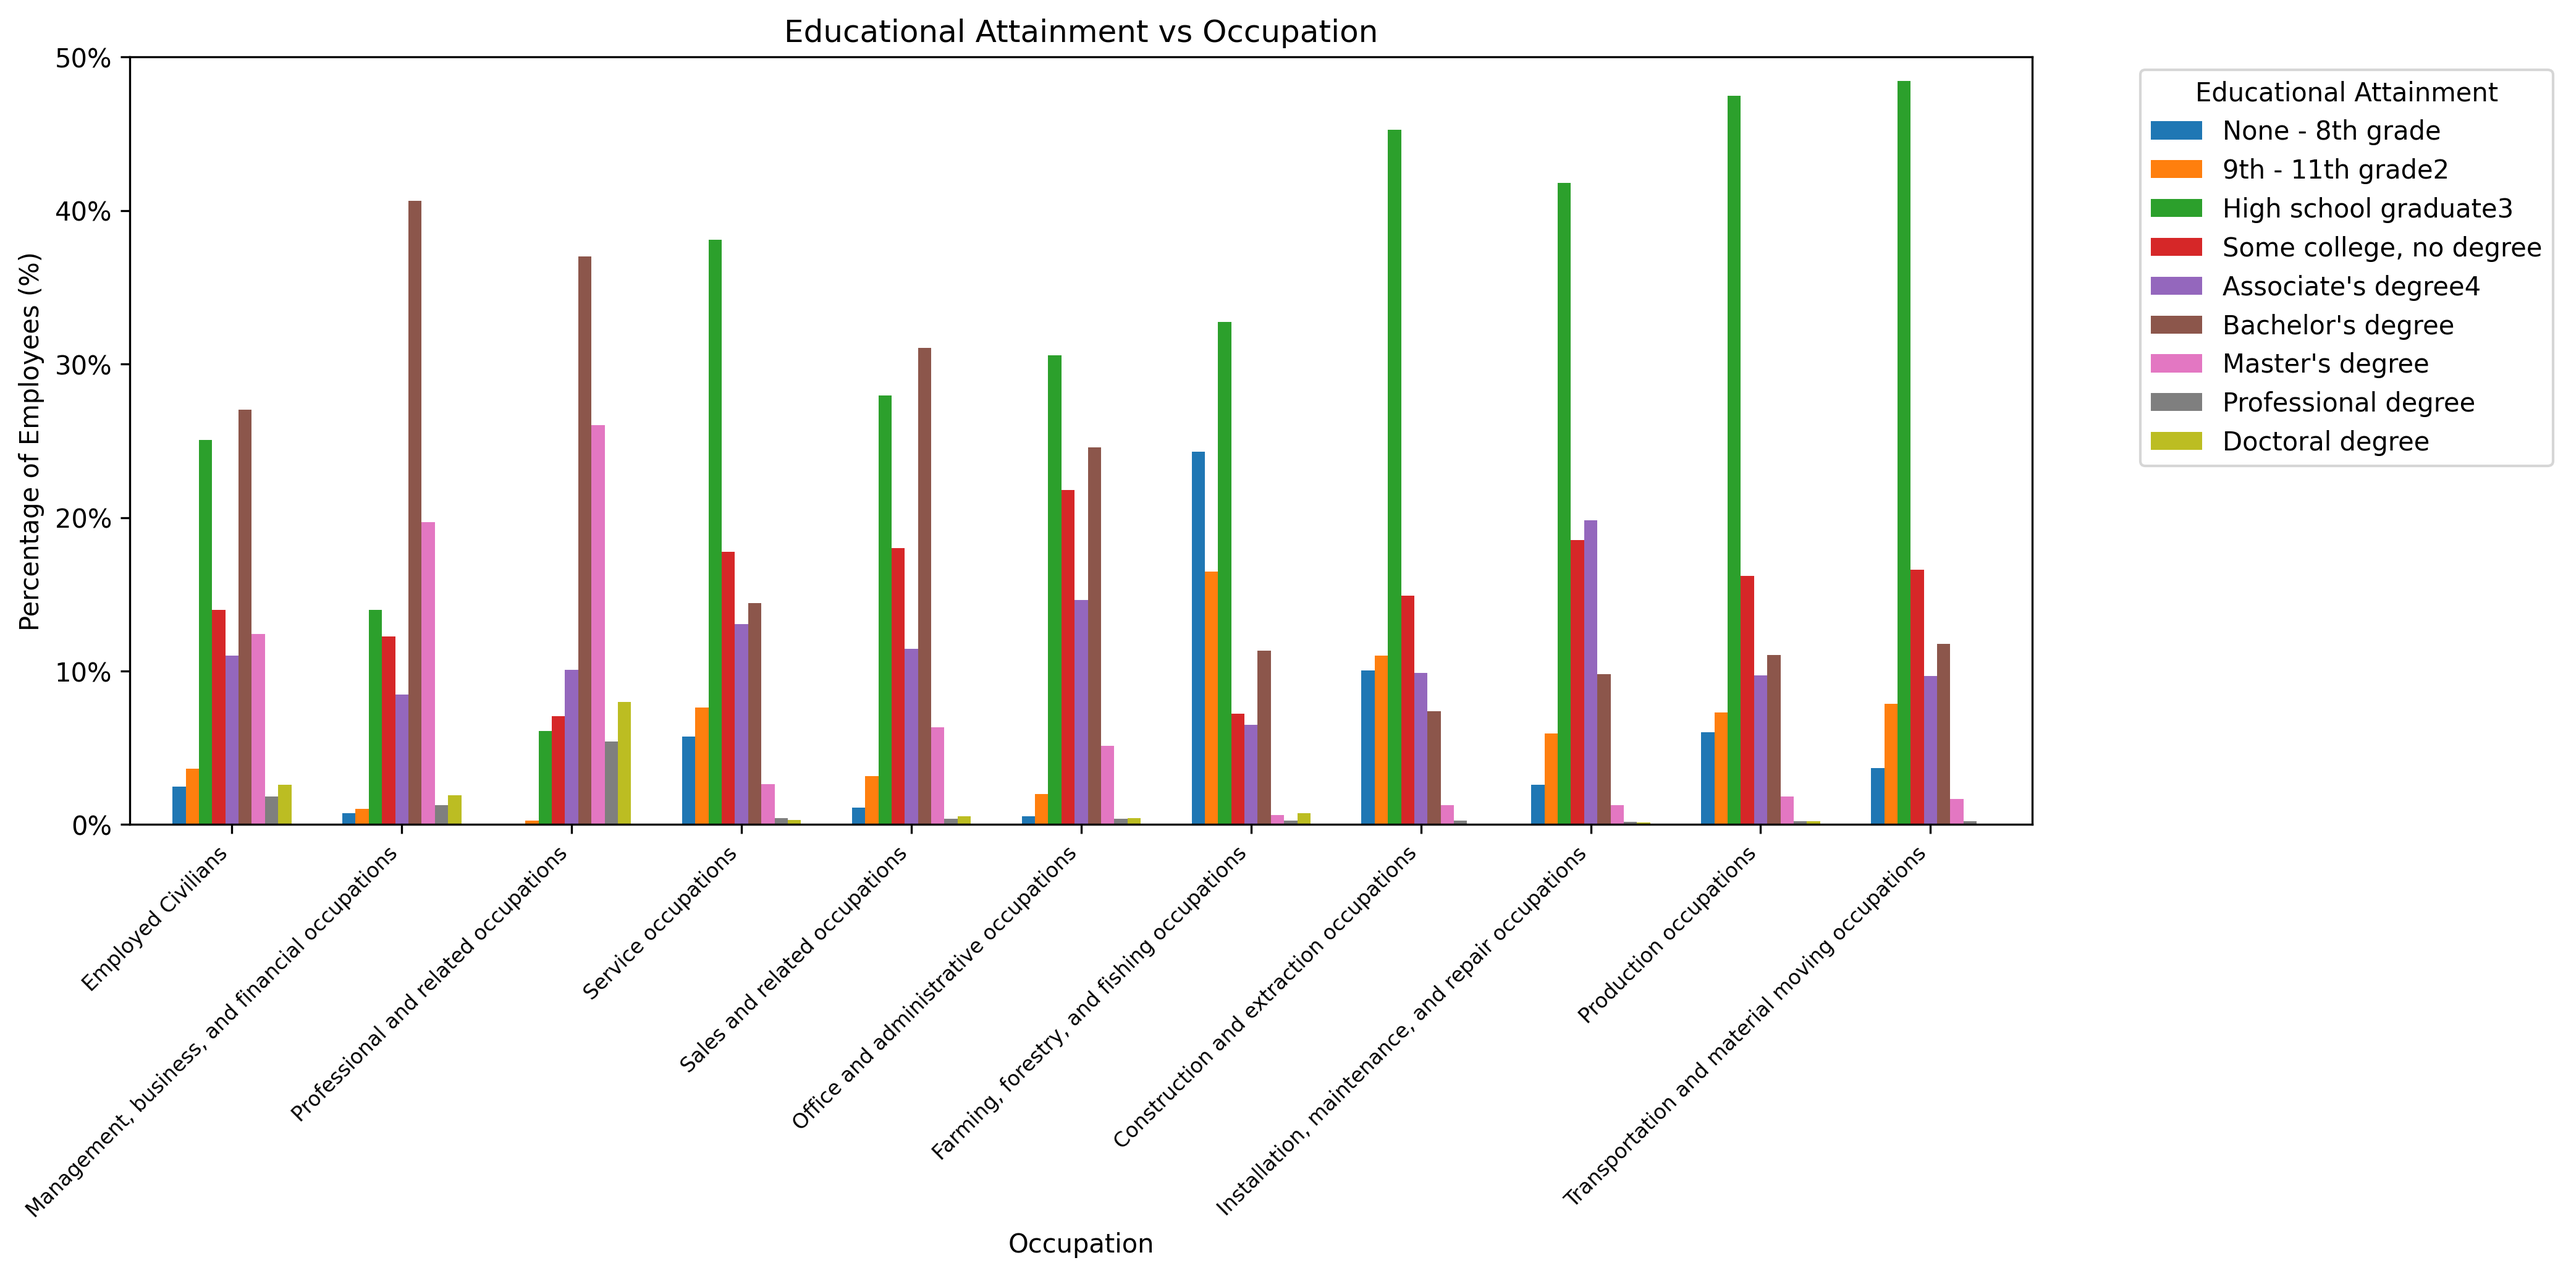
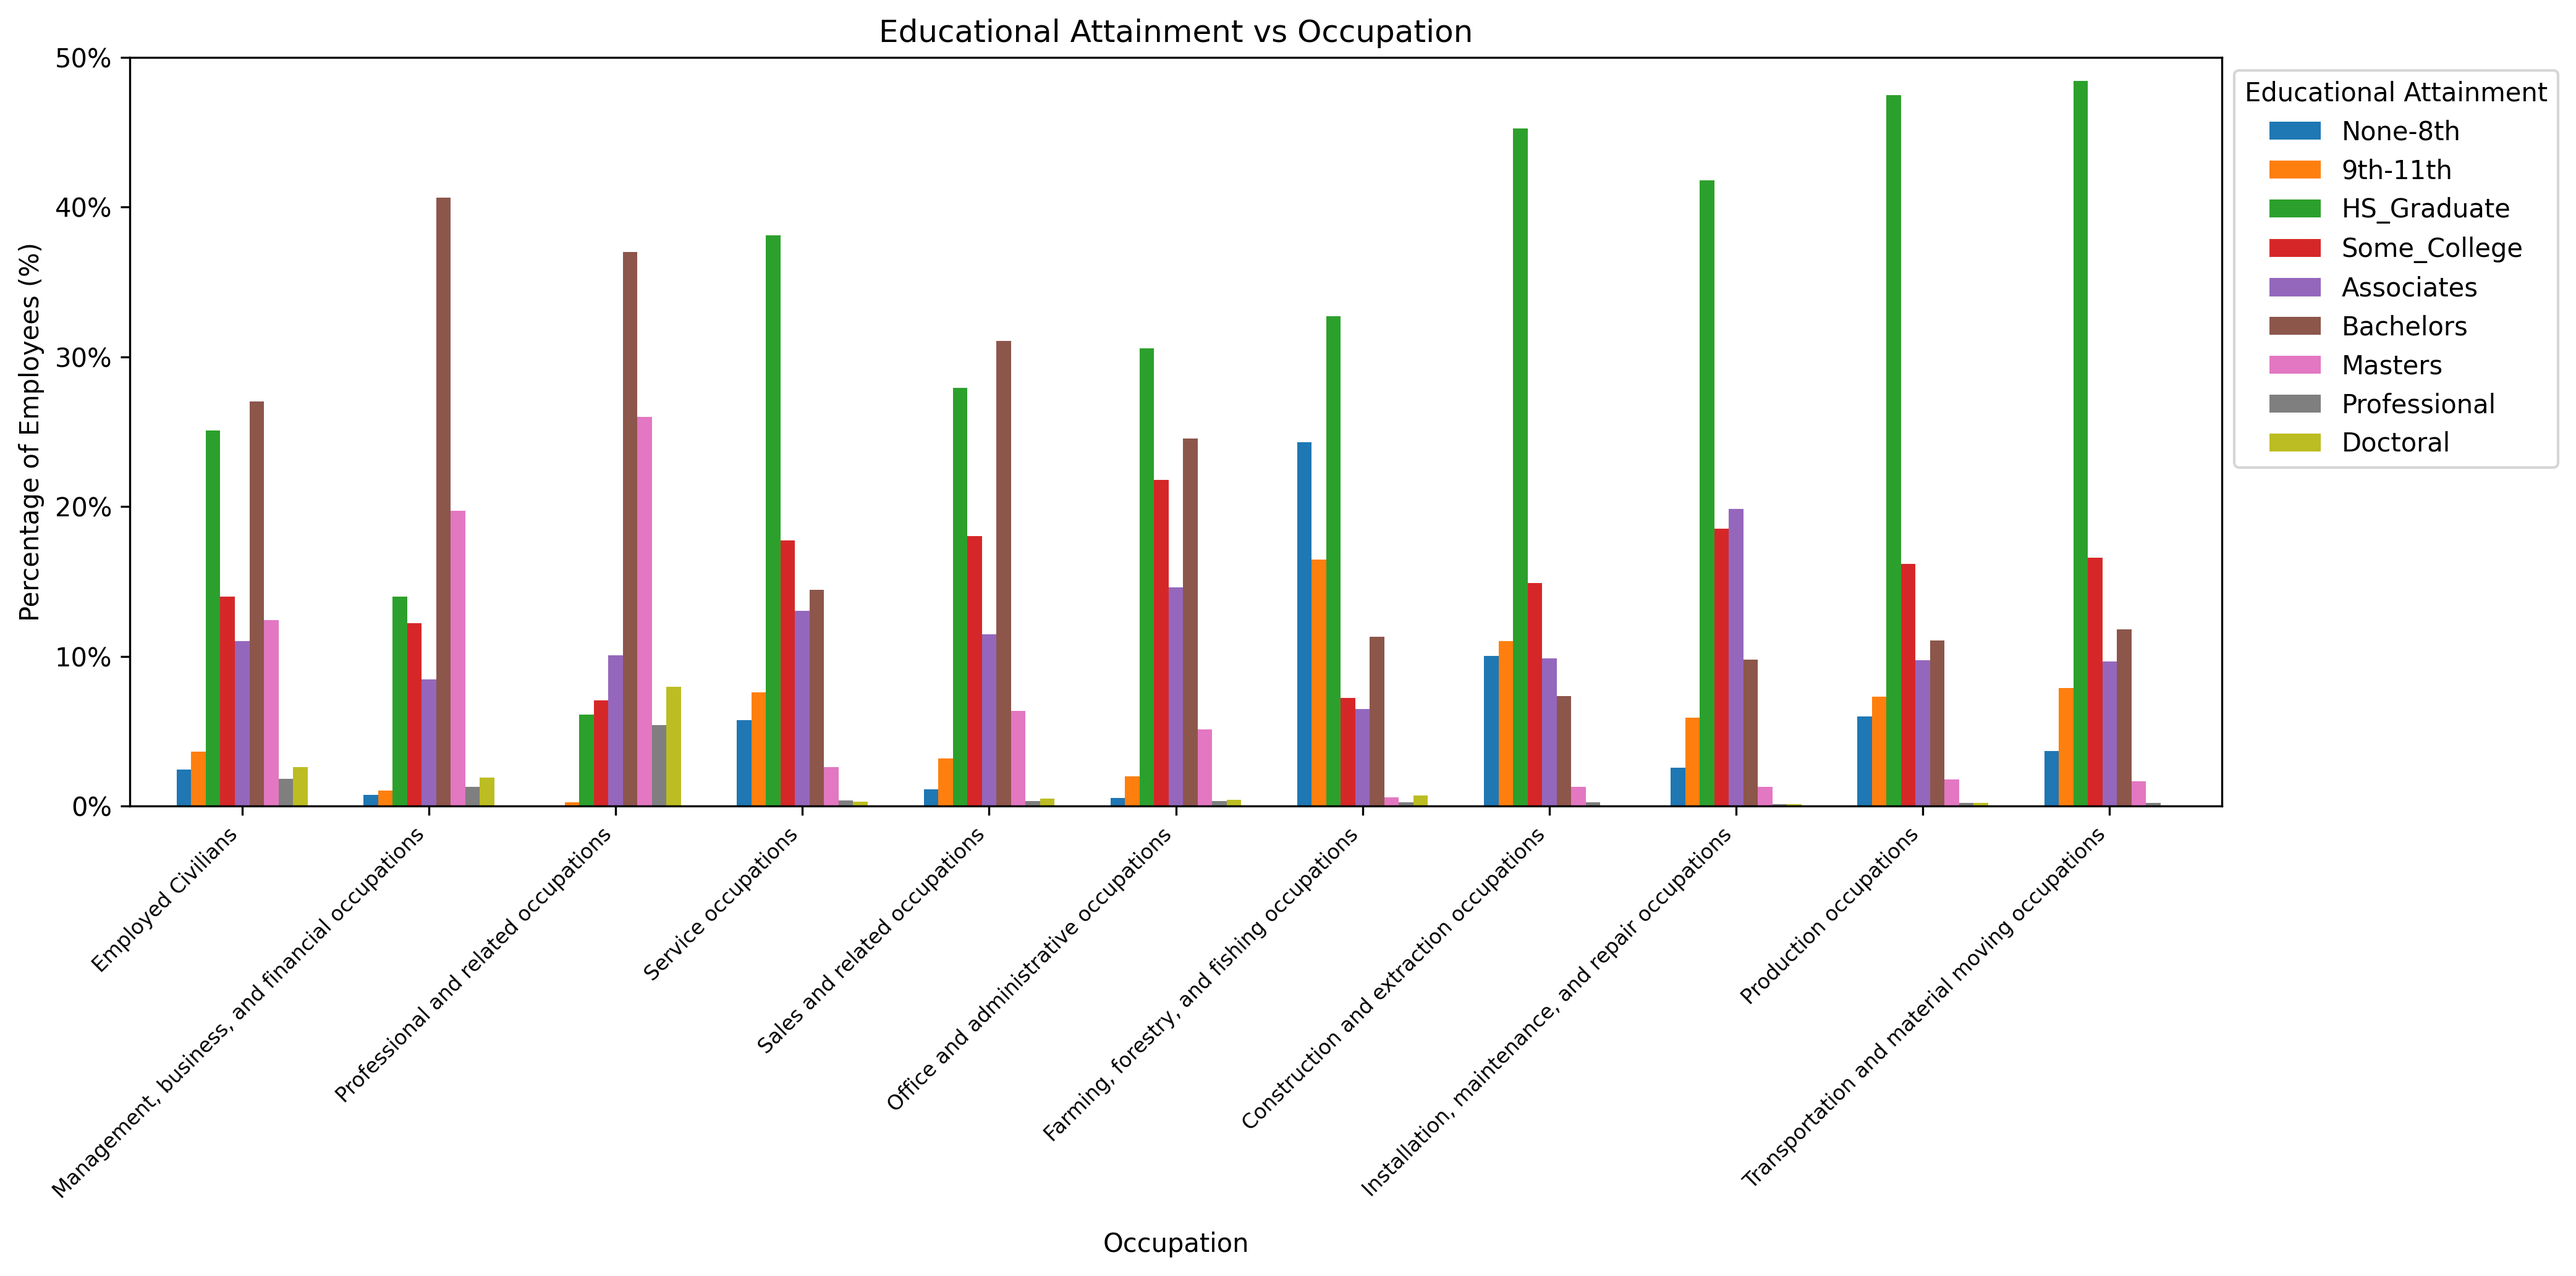
modify occupation viz script to use cleaned r table

diff --git a/visualize_occupation.py b/visualize_occupation.py
@@ -4,43 +4,21 @@ import matplotlib.pyplot as plt
 import matplotlib.ticker as mticker
 
 # Connect to database
-db_name = 'educational_attainment_database.db'
+db_name = '/home/john/RIT CS Masters/Big Data/big-data-group-assignment/educational_attainment_database_r.db'
 conn = sqlite3.connect(db_name)
 cursor = conn.cursor()
-table2_name = 'attain02_2022'
-
-# Remove first four rows of the table
-delete_query = f"""
-DELETE FROM {table2_name} 
-WHERE rowid IN (
-    SELECT rowid FROM {table2_name}
-    ORDER BY rowid ASC
-    LIMIT 4
-);
-"""
-# cursor.execute(delete_query)
 
 # Query to get dataframe of table 2
-query = f"SELECT * FROM attain02_2022;"
+query = "SELECT * FROM table_2;"
 df2 = pd.read_sql_query(query, conn)
 
-# Set first row as column names
-df2.columns = df2.iloc[0]
-df2 = df2.drop(0)
-df2 = df2.reset_index(drop=True)
-
-# Rename the first column
-df2.columns.values[0] = "Group"
-
-# Plot Occupation Data
-indices = [38, 39, 40, 41, 42, 43, 44, 45, 46, 47, 48]
-df2.set_index('Group', inplace=True)
+# Plot occupation Data
+indices = [31, 32, 33, 34, 35, 36, 37, 38, 39, 40, 41]
+df2.set_index('Groups', inplace=True)
 df_subset = df2.iloc[indices]
-# Convert strings to numeric
-df_subset.iloc[:, 0:] = df_subset.iloc[:, 0:].replace(',', '', regex=True).apply(pd.to_numeric)
-# Divide by the respective totals to get percentages
+# Divide by respective totals to get percentages
 df_subset.iloc[:, 1:] = df_subset.iloc[:, 1:].div(df_subset['Total'], axis=0)
-# Drop Total column
+# Drop 'Total' column
 df_subset = df_subset.drop(columns=['Total'], errors='ignore')
 # Create bar chart
 ax = df_subset.plot(kind='bar', stacked=False, figsize=(14, 7), width=0.7)
@@ -51,7 +29,7 @@ ax.yaxis.set_major_formatter(mticker.PercentFormatter(xmax=1))
 ax.set_title('Educational Attainment vs Occupation')
 ax.set_xlabel('Occupation')
 # Clean x labels
-ax.set_xticklabels([label.get_text().strip() for label in ax.get_xticklabels()], rotation=45, ha='right', fontsize=8)
+ax.set_xticklabels(ax.get_xticklabels(), rotation=45, ha='right', fontsize=8)
 ax.legend(title='Educational Attainment', bbox_to_anchor=(1, 1), loc='upper left')
 plt.tight_layout()
 plt.savefig('educational_attainment_vs_occupation.png', format='png', dpi=300, bbox_inches='tight')
